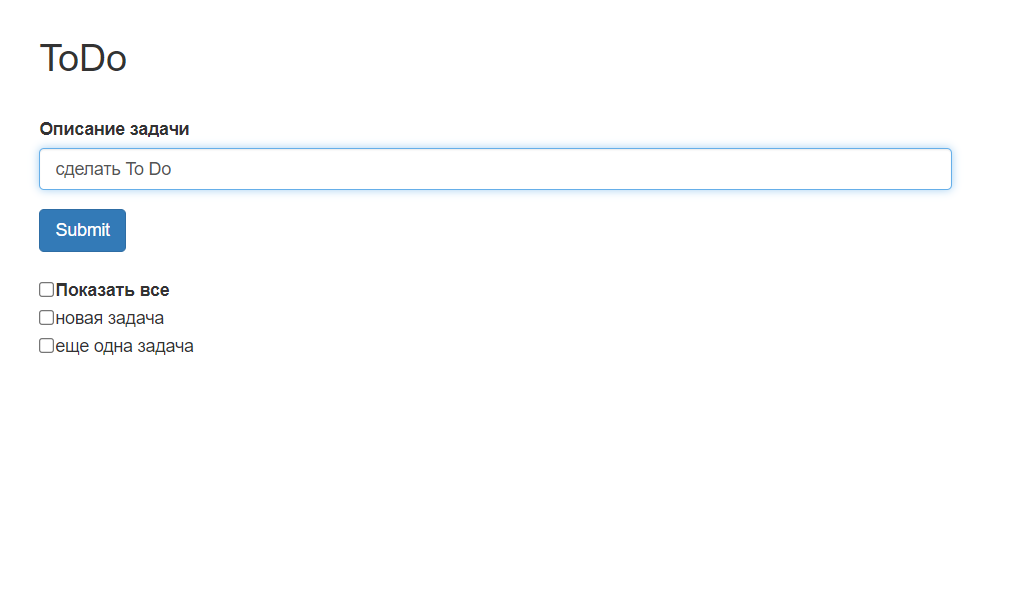
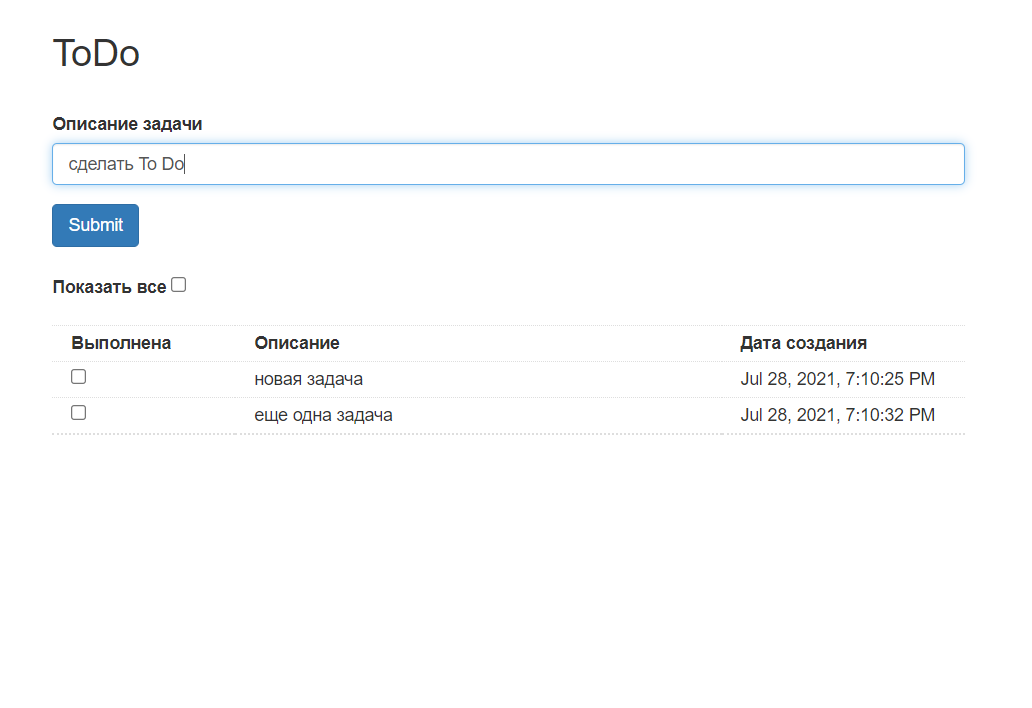
добавил поле с датой создания задачи, выделение выполненной задачи зеленым цветом

diff --git a/src/main/webapp/js/script.js b/src/main/webapp/js/script.js
@@ -30,9 +30,10 @@ function showAll(data) {
         }
         $('#table').append(
             `<tr id="item${disabled}">
-                        <td><input type="checkbox"
+                        <td class="col-md-1"><input type="checkbox"
                         onclick="do_done(${data[i].id})" ${checked}></td>
-                        <td>${data[i].description}</td>
+                        <td class="col-md-4">${data[i].description}</td>
+                        <td class="col-md-2">${data[i].created}</td>
                     </tr>`
         );
     }
@@ -45,8 +46,9 @@ function showNewOnly(data) {
         }
         $('#table').append(
             `<tr id="item">
-                        <td><input type="checkbox" onclick="do_done(${data[i].id})"></td>
-                        <td>${data[i].description}</td>
+                        <td class="col-md-1"><input type="checkbox" onclick="do_done(${data[i].id})"></td>
+                        <td class="col-md-4">${data[i].description}</td>
+                        <td class="col-md-2">${data[i].created}</td>
                     </tr>`
         );
     }

diff --git a/src/main/webapp/index.html b/src/main/webapp/index.html
@@ -29,11 +29,18 @@
 </div>
 <div class="container">
     <div class="col-md-8">
+        <form>
+            <div class="form-group">
+                <label for="show_all">Показать все</label>
+                <input type="checkbox" class="show_all_items" id="show_all" onclick="trigger()">
+            </div>
+        </form>
         <table id="table">
             <thead>
                 <tr>
-                    <th><input type="checkbox" class="show_all_box" id="show_all" onclick="trigger()"></th>
-                    <th>Показать все</th>
+                    <th class="col-md-1">Выполнена</th>
+                    <th class="col-md-4">Описание</th>
+                    <th class="col-md-2">Дата создания</th>
                 </tr>
             </thead>
         </table>

diff --git a/src/main/webapp/css/style.css b/src/main/webapp/css/style.css
@@ -1,3 +1,13 @@
 .container {
-    padding-top: 20px;
+    margin-top: 20px;
+}
+
+tr {
+    line-height: 2;
+    border-top: #DEDEDE 1px dotted;
+    border-bottom: #DEDEDE 1px dotted;
+}
+
+tr#item_disabled {
+    background-color: lightgreen;
 }
